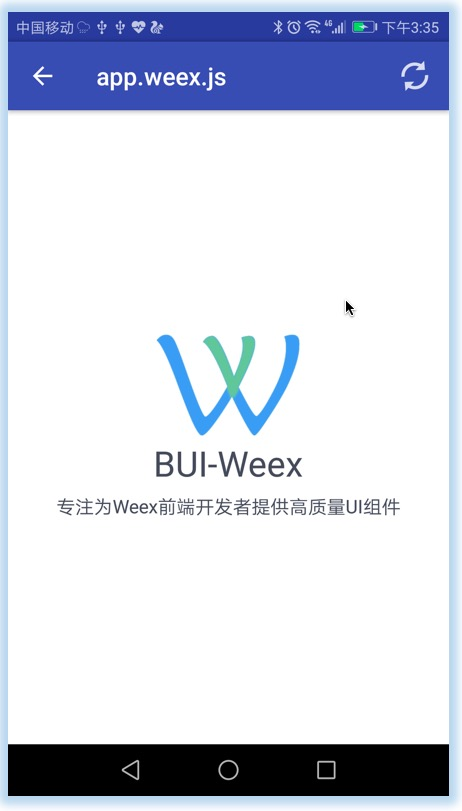
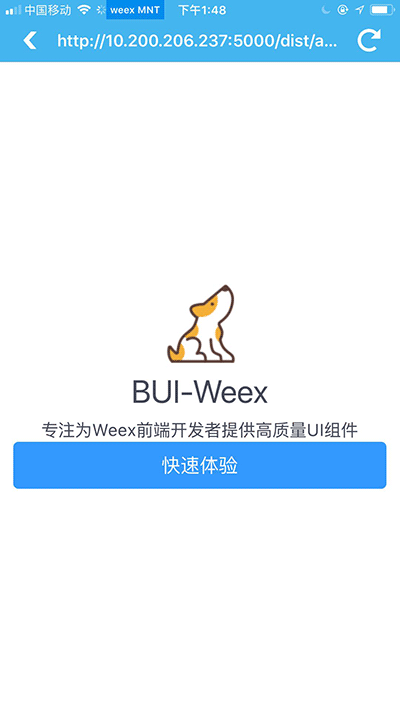
logo及版本更新

diff --git a/reference/bui-flow.md b/reference/bui-flow.md
@@ -1,6 +1,13 @@
-## 流程图 (bui-flow)
+## 流程图 (bui-flow | bui-timeline)
+
+* `bui-flow`固定布局
 
 ![](../assets/gif/flow.gif)&nbsp;&nbsp;&nbsp;<img src="../assets/qrcode/flow.png" alt="" width="120px">
+
+
+* `bui-timeline`可扩展布局
+
+![](../assets/gif/timeline.jpg)&nbsp;&nbsp;&nbsp;<img src="../assets/qrcode/timeline.png" alt="" width="120px">
 
 
 ### 用法
@@ -12,6 +19,26 @@
     :items="testData"
     :customStyles="customStyles"
     @click='_click'></bui-flow>
+    
+<bui-timeline>
+    <bui-timeline-item first=true></bui-timeline-item>
+    <bui-timeline-item>
+        <text class="time">1984年</text>
+        <text class="content">发布 Macintosh</text>
+    </bui-timeline-item>
+    <bui-timeline-item>
+        <text class="time">2007年</text>
+        <text class="content">发布 iPhone</text>
+    </bui-timeline-item>
+    <bui-timeline-item>
+        <text class="time">2010年</text>
+        <text class="content">发布 iPad</text>
+    </bui-timeline-item>
+    <bui-timeline-item last=true>
+        <text class="time">2011年10月5日</text>
+        <text class="content">史蒂夫·乔布斯去世</text>
+    </bui-timeline-item>
+</bui-timeline>    
 ```
 
 ```javascript
@@ -62,11 +89,21 @@ methods: {
 Example:[bui-flow](https://github.com/bingo-oss/bui-weex-sample/blob/master/src/views/example/flow-demo.vue)
 
 ### 属性
+* `bui-flow`
 
 | Prop | Type | Required | Default | Description |
 | ---- |:----:|:---:|:-------:| :----------:|
 | **`items`** | `array` | `Y` |  | 流程图数据项 |
 | **`customStyles`** | `object` | `N` |  | 自定义属性 |
+
+* `bui-timeline`
+
+| Prop | Type | Required | Default | Description |
+| ---- |:----:|:---:|:-------:| :----------:|
+| **`color`** | `string` | `N` | `blue` | 圆圈颜色，可选值为`blue``red``green`，或自定义色值 |
+| **`title`** | `string` | `N` | `发布版本一` | 默认时间轴文本 |
+| **`last`** | `boolean` | `Y` | `false` | 指定最后一个节点 |
+| **`first`** | `boolean` | `Y` | `false` | 指定第一个节点 |
 
 `items`: 赋值单选组数据列表，传一个数组，单个数组的属性如下：
 
@@ -87,4 +124,16 @@ Example:[bui-flow](https://github.com/bingo-oss/bui-weex-sample/blob/master/src/
 
 ### 事件
 
-* `@click`:点击某项触发的事件，返回索引
+* `@click`:点击某项触发的事件，返回索引。`bui-flow`特有
+
+### `bui-timeline`的扩展
+
+自定义时间轴点内容，参考如下：
+
+```html
+<bui-timeline title="">
+    <bui-icon name="trophy" slot="dot"></bui-icon>
+    <text class="time">1984年</text>
+    <text class="content">发布 Macintosh</text>
+</bui-header>
+```

diff --git a/reference/bui-tag.md b/reference/bui-tag.md
@@ -1,0 +1,42 @@
+## 标签 (bui-tag)
+
+![](../assets/gif/tag.png)&nbsp;&nbsp;&nbsp;<img src="../assets/qrcode/tag.png" alt="" width="120px">
+
+
+### 用法
+
+```html
+<bui-tag class="mr10" value="默认标签"></bui-tag>
+<bui-tag class="mr10"
+         value="空心标签"
+         type="hollow"
+         closable></bui-tag>
+<bui-tag class="mr10" value="特殊标签"
+         type="special"
+         specialIcon="http://gtms02.alicdn.com/tfs/TB1gC.jRVXXXXaiXFXXXXXXXXXX-32-32.png"
+         closable></bui-tag>
+<bui-tag value="图片标签"
+         type="image"
+         img="http://gtms04.alicdn.com/tfs/TB1ZfodRVXXXXciXFXXXXXXXXXX-92-24.png"></bui-tag>
+```
+
+Example:[bui-tag](https://github.com/bingo-oss/bui-weex-sample/blob/master/src/views/example/tag-demo.vue)
+
+### 属性
+
+| Prop | Type | Required | Default | Description |
+| ---- |:----:|:---:|:-------:| :----------:|
+| **`type`** | `string` | `N` | `solid` | 标签的类型（标注1） |
+| **`value`** | `string` | `Y` |  | 文字标签的文案 |
+| **`tagColor`** | `string` | `N` | `#ff5000` | 标签颜色 |
+| **`fontColor`** | `string` | `N` | `#ffffff` | 文字颜色 |
+| **`specialIcon`** | `string` | `N` |  | 特殊标签的小icon(注2) |
+| **`img`** | `string ` | `N ` | `` | 图片类型tag的图片地址(注3) |
+
+* 注1: type的类型有如下四种solid、hollow、special、image，默认是solid(实心)
+* 注2: specialIcon本应该为iconfont的，但是考虑的Weex,直接使用png会更方便
+* 注3: type为image时，img字段为必传
+
+
+
+

diff --git a/reference/bui-tabbar.md b/reference/bui-tabbar.md
@@ -1,6 +1,16 @@
-## 选项卡(bui-tabbar)
+## 选项卡(bui-tabbar | bui-tabbar-scroller)
+有两种形式，用法相同，如下：
+
+* bui-tabbar 选项卡
 
 ![](../assets/gif/tabbar.gif)&nbsp;&nbsp;&nbsp;<img src="../assets/qrcode/tabbar.png" alt="" width="120px">
+
+* bui-tabbar-scroller 横向滚动选项卡
+
+![](../assets/gif/tabbar-scroller.gif)&nbsp;&nbsp;&nbsp;<img src="../assets/qrcode/tabbar-scroller.png" alt="" width="120px">
+
+
+
 
 ### 用法
 
@@ -82,6 +92,7 @@ module.exports = {
 Example: [bui-tabbar](https://github.com/bingo-oss/bui-weex-sample/blob/master/src/views/example/tabbar-demo.vue)
 
 ### 属性
+* `bui-tabbar`与`bui-tabbar-scroller`
 
 | Prop | Type | Required | Default | Description |
 | ---- |:----:|:---:|:-------:| :----------:|
@@ -98,6 +109,12 @@ Example: [bui-tabbar](https://github.com/bingo-oss/bui-weex-sample/blob/master/s
 | **`showSelectedLine`** | `bool` | `N` | false | 选中项底部显示边框 |
 | **`containerStyle`** | `object` | `N` |  | 外层容器扩展样式 |
 | **`itemStyle`** | `object` | `N` |  | 每个item扩展样式 |
+
+* `bui-tabbar-scroller`
+
+| Prop | Type | Required | Default | Description |
+| ---- |:----:|:---:|:-------:| :----------:|
+| **`width`** | `number` | `Y` | `150` | 每个tab的宽度，满屏是width=750/tab个数，滚动屏就width>750/tab个数 |
 
 
 ### 事件

diff --git a/SUMMARY.md b/SUMMARY.md
@@ -22,8 +22,7 @@
   * [搜索框\(bui-search\)](reference/bui-search.md)
   * [列表\(bui-list\)](reference/bui-list.md)
   * [滑动菜单\(bui-swipe-cell\)](reference/bui-swipe-cell.md)
-  * [选项卡\(bui-tabbar\)](reference/bui-tabbar.md)
-  * [选项卡~横向滑动\(bui-tabbar-scroller\)](reference/bui-tabbar-scroller.md)
+  * [选项卡\(bui-tabbar | bui-tabbar-scroller\)](reference/bui-tabbar.md)
   * [单元格\(bui-cell\)](reference/bui-cell.md)
   * [单选\(bui-radio\)](reference/bui-radio.md)
   * [复选\(bui-checkbox\)](reference/bui-checkbox.md)
@@ -35,8 +34,8 @@
   * [图片轮播\(bui-image-slider\)](reference/bui-image-slider.md)
   * [富文本\(bui-richcell\)](reference/bui-richcell.md)
   * [多格筛选\(bui-grid-select\)](reference/bui-grid-select.md)
-  * [流程图\(bui-flow\)~布局固定](reference/bui-flow.md)
-  * [流程图\(bui-timeline\)~布局可扩展](reference/bui-timeline.md)
+  * [流程图\(bui-flow | bui-timeline\)](reference/bui-flow.md)
+  * [标签\(bui-tag\)](reference/bui-tag.md)
 * 版本升级
   * [0.2.X](update/0.2.X.md) 
   * [0.3.X](update/0.3.X.md)

diff --git a/reference/bui-header.md b/reference/bui-header.md
@@ -52,6 +52,7 @@ Example:[bui-header](https://github.com/bingo-oss/bui-weex-sample/blob/master/sr
 | **`iconSize`** | `string` | `N` | `48px` | 图标大小|
 | **`backgroundColor`** | `string` | `N` | `#4ca4fe` | 背景颜色 |
 | **`height`** | `string` | `N` | `90px` | 头部高度 |
+| **`useDefaultReturn`** | `Boolean` | `N` | `true` | 是否使用默认的返回 |
 
 defaultItem = `{ icon: '',text: ''}` ,其中 icon 是字体图标的name，从ionicons寻找合适的进行填充，text是文本内容，例如'返回'，icon在左，text在右。
 

diff --git a/update/0.3.X.md b/update/0.3.X.md
@@ -1,6 +1,6 @@
 ## 0.3.X
 
-### 0.3.9
+### 0.3.10
 
 修改package.json
 
@@ -11,8 +11,10 @@
 
 * 新增组件：横向滚动选项卡组件；
 * 新增组件：流程图布局可扩展组件；
+* 新增组件：标签组件
 * 优化组件：表单radio与radio-list合并，checkbox与checkbox-list合并；
 * 优化组件：头部组件增加可操作区域
+* 优化组件：按钮组件等组件
 
 
 

diff --git a/reference/bui-timeline.md b/reference/bui-timeline.md
@@ -2,7 +2,7 @@
 
 ### 可扩展流程图
 
-![](../assets/gif/timeline.gif)&nbsp;&nbsp;&nbsp;<img src="../assets/qrcode/timeline.png" alt="" width="120px">
+![](../assets/gif/timeline.jpg)&nbsp;&nbsp;&nbsp;<img src="../assets/qrcode/timeline.png" alt="" width="120px">
 
 
 ### 用法
